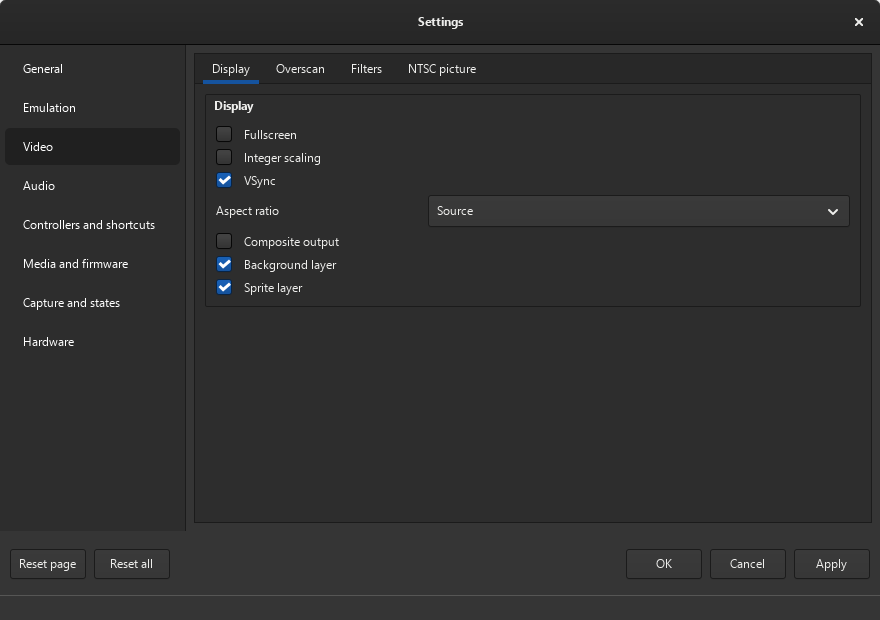
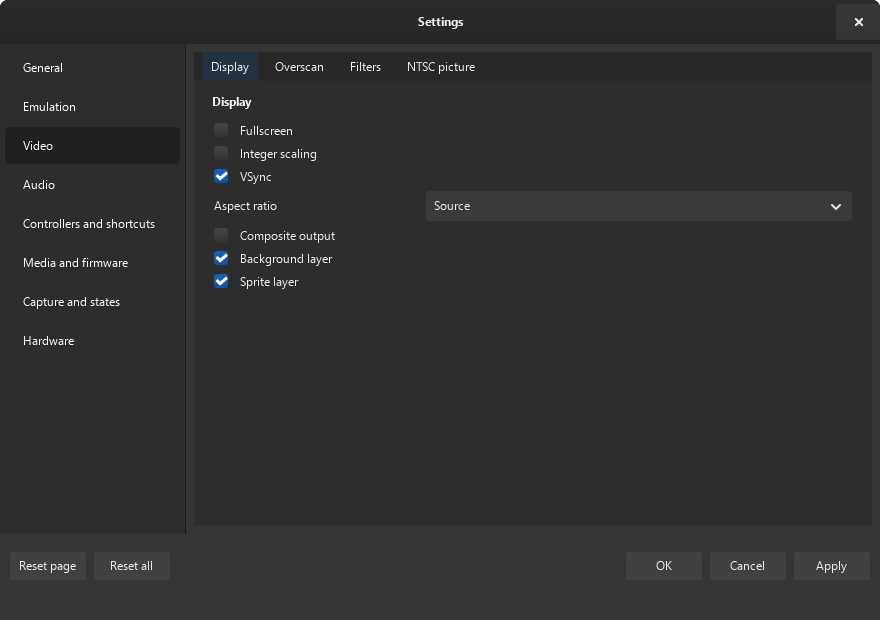
Remove desktop control borders and wait for TAS scroll layout

diff --git a/src/tests/gtk_ui_smoke.c b/src/tests/gtk_ui_smoke.c
@@ -58,19 +58,16 @@ static void pump(FrontendDesktopUi *ui) {
     }
 }
 
-static bool thin_control_borders(GtkWidget *widget) {
-    if (GTK_IS_BUTTON(widget) || GTK_IS_ENTRY(widget) || GTK_IS_SPIN_BUTTON(widget) ||
-        GTK_IS_FRAME(widget) || GTK_IS_NOTEBOOK(widget) || GTK_IS_DROP_DOWN(widget)) {
-        GtkBorder border;
-        gtk_style_context_get_border(gtk_widget_get_style_context(widget), &border);
-        if (border.left > 1 || border.right > 1 || border.top > 1 || border.bottom > 1) {
-            fprintf(stderr, "Thick control border: %s (%d,%d,%d,%d)\n", G_OBJECT_TYPE_NAME(widget),
-                    border.left, border.right, border.top, border.bottom);
-            return false;
-        }
+static bool borderless_controls(GtkWidget *widget) {
+    GtkBorder border;
+    gtk_style_context_get_border(gtk_widget_get_style_context(widget), &border);
+    if (border.left || border.right || border.top || border.bottom) {
+        fprintf(stderr, "Unexpected control border: %s (%d,%d,%d,%d)\n", G_OBJECT_TYPE_NAME(widget),
+                border.left, border.right, border.top, border.bottom);
+        return false;
     }
     for (GtkWidget *child = gtk_widget_get_first_child(widget); child; child = gtk_widget_get_next_sibling(child)) {
-        if (!thin_control_borders(child)) {
+        if (!borderless_controls(child)) {
             return false;
         }
     }
@@ -78,7 +75,7 @@ static bool thin_control_borders(GtkWidget *widget) {
 }
 
 static bool capture(GtkWidget *widget, const char *path) {
-    if (!thin_control_borders(widget)) {
+    if (!borderless_controls(widget)) {
         return false;
     }
     int w = gtk_widget_get_width(widget), h = gtk_widget_get_height(widget);
@@ -397,13 +394,9 @@ static GtkEventController *find_controller(GtkWidget *widget, const char *name) 
     return found;
 }
 
-static bool click_cell(FrontendDesktopUi *ui, GtkWidget *tree, size_t frame, GtkTreeViewColumn *column) {
-    GtkTreePath *path = gtk_tree_path_new_from_indices((int)frame, -1);
-    gtk_tree_view_scroll_to_cell(GTK_TREE_VIEW(tree), path, column, TRUE, 0, 0);
-    pump(ui);
+static bool cell_position(GtkWidget *tree, GtkTreePath *path, GtkTreeViewColumn *column, int *x, int *y) {
     GdkRectangle area;
     gtk_tree_view_get_cell_area(GTK_TREE_VIEW(tree), path, column, &area);
-    gtk_tree_path_free(path);
     /* Column allocations can lag a scroll adjustment until the next layout.
      * Build the bin-window position from widths, as GTK's hit test does. */
     int column_x = 0;
@@ -417,19 +410,41 @@ static bool click_cell(FrontendDesktopUi *ui, GtkWidget *tree, size_t frame, Gtk
         }
     }
     g_list_free(columns);
-    int x, y;
     gtk_tree_view_convert_bin_window_to_widget_coords(GTK_TREE_VIEW(tree),
                                                      column_x + gtk_tree_view_column_get_width(column) / 2,
-                                                     area.y + area.height / 2, &x, &y);
-    CHECK(x >= 0 && x < gtk_widget_get_width(tree));
-    CHECK(y >= 0 && y < gtk_widget_get_height(tree));
+                                                     area.y + area.height / 2, x, y);
+    if (area.height <= 0 || *x < 0 || *x >= gtk_widget_get_width(tree) ||
+        *y < 0 || *y >= gtk_widget_get_height(tree)) {
+        return false;
+    }
     int bx, by;
-    gtk_tree_view_convert_widget_to_bin_window_coords(GTK_TREE_VIEW(tree), x, y, &bx, &by);
+    gtk_tree_view_convert_widget_to_bin_window_coords(GTK_TREE_VIEW(tree), *x, *y, &bx, &by);
     GtkTreePath *hit = NULL;
     GtkTreeViewColumn *hit_column = NULL;
-    CHECK(gtk_tree_view_get_path_at_pos(GTK_TREE_VIEW(tree), bx, by, &hit, &hit_column, NULL, NULL));
-    bool target = gtk_tree_path_get_indices(hit)[0] == (int)frame && hit_column == column;
+    if (!gtk_tree_view_get_path_at_pos(GTK_TREE_VIEW(tree), bx, by, &hit, &hit_column, NULL, NULL)) {
+        return false;
+    }
+    bool target = gtk_tree_path_compare(hit, path) == 0 && hit_column == column;
     gtk_tree_path_free(hit);
+    return target;
+}
+
+static bool click_cell(FrontendDesktopUi *ui, GtkWidget *tree, size_t frame, GtkTreeViewColumn *column) {
+    GtkTreePath *path = gtk_tree_path_new_from_indices((int)frame, -1);
+    int x = 0, y = 0;
+    bool target = false;
+    /* GTK can defer scrolling while it measures newly visible rows. Wait for
+     * the requested cell, never retry the input mutation itself. */
+    for (unsigned attempt = 0; attempt < 25 && !target; ++attempt) {
+        gtk_tree_view_scroll_to_cell(GTK_TREE_VIEW(tree), path, column, TRUE, 0, 0);
+        pump(ui);
+        target = cell_position(tree, path, column, &x, &y);
+    }
+    gtk_tree_path_free(path);
+    if (!target) {
+        fprintf(stderr, "TAS frame %zu did not become visible: (%d,%d), viewport %dx%d\n",
+                frame, x, y, gtk_widget_get_width(tree), gtk_widget_get_height(tree));
+    }
     CHECK(target);
     GtkEventController *click = find_controller(tree, "cupid-tas-input");
     CHECK(click);

diff --git a/src/ui/gtk_desktop.c b/src/ui/gtk_desktop.c
@@ -690,7 +690,7 @@ bool cupid_gtk_init(FrontendDesktopUi *ui) {
     /* Recent Win32 GTK renderers require DirectComposition for GPU output.
      * Without this opt-in they silently fall back to scaling with Cairo.
      * Keep explicit diagnostic overrides and GTK's device-failure fallback. */
-    if (gtk_check_version(4, 24, 0) == NULL) {
+    if (gtk_check_version(4, 24, 0) == NULL && g_strcmp0(g_getenv("GSK_RENDERER"), "cairo") != 0) {
         g_setenv("GDK_DEBUG", "dcomp", FALSE);
     }
 #endif
@@ -773,24 +773,23 @@ bool cupid_gtk_init(FrontendDesktopUi *ui) {
         css,
         ".game-view { background: #08090b; } .monospace { font-family: monospace; }"
         ".cupid-desktop { font-size: 12px; }"
+        ".cupid-desktop, .cupid-desktop * { border-style: none; box-shadow: none; }"
         ".cupid-desktop button { min-height: 22px; padding: 3px 8px; border-radius: 3px; }"
-        ".cupid-desktop button, .cupid-desktop entry, .cupid-desktop spinbutton,"
-        ".cupid-desktop checkbutton check, .cupid-desktop checkbutton radio {"
-        " border: 1px solid alpha(currentColor, 0.22); box-shadow: none; }"
-        ".cupid-desktop dropdown, .cupid-desktop spinbutton entry { border: none; box-shadow: none; }"
-        ".cupid-desktop button:focus-visible, .cupid-desktop entry:focus-within,"
-        ".cupid-desktop spinbutton:focus-within { outline: 1px solid @theme_selected_bg_color; outline-offset: -2px; }"
+        ".cupid-desktop button, .cupid-desktop entry, .cupid-desktop spinbutton {"
+        " background-image: none; background-color: alpha(currentColor, 0.07); }"
+        ".cupid-desktop button:hover { background-color: alpha(currentColor, 0.12); }"
+        ".cupid-desktop button:checked, .cupid-desktop notebook > header tab:checked {"
+        " background-color: alpha(@theme_selected_bg_color, 0.22); }"
+        ".cupid-desktop spinbutton entry { background-color: transparent; }"
+        ".cupid-desktop *:focus-visible { outline: 1px solid @theme_selected_bg_color; outline-offset: -2px; }"
         ".cupid-desktop entry { min-height: 24px; padding: 2px 6px; border-radius: 2px; }"
         ".cupid-desktop dropdown button { min-height: 24px; }"
         ".cupid-desktop notebook > header tab { min-height: 24px; padding: 3px 9px; }"
-        ".cupid-desktop notebook { border: none; box-shadow: none; }"
-        ".cupid-desktop notebook > header { border-color: alpha(currentColor, 0.18); box-shadow: none; }"
-        ".cupid-desktop scrolledwindow.frame { border: 1px solid alpha(currentColor, 0.18); box-shadow: none; }"
-        ".cupid-desktop frame { border: none; border-radius: 2px; box-shadow: none; }"
+        ".cupid-desktop frame { border-radius: 2px; }"
         ".cupid-desktop frame > label { margin: 2px 8px; font-weight: bold; }"
         ".cupid-desktop flowboxchild { padding: 0; }"
         ".cupid-desktop .toolbar button { padding: 4px 7px; }"
-        ".tool-status { padding: 4px 8px; border-top: 1px solid alpha(currentColor, 0.18); }",
+        ".tool-status { padding: 4px 8px; }",
         -1);
     gtk_style_context_add_provider_for_display(gtk_widget_get_display(d->window), GTK_STYLE_PROVIDER(css),
                                                GTK_STYLE_PROVIDER_PRIORITY_APPLICATION);

diff --git a/README.md b/README.md
@@ -7,7 +7,7 @@ StudyBox media, and supported VS System arcade images.
 The GTK4 desktop has native menus, a compact toolbar, and separate windows for
 settings and tools. Keep the debugger, memory editor, or TAS timeline beside the
 game. Windows follows the system light or dark appearance.
-Controls use thin borders and visible keyboard focus outlines in both themes.
+Controls have no surrounding borders; keyboard focus stays visible in both themes.
 The Windows desktop enables GPU presentation on supported GTK runtimes to keep
 maximized and fullscreen play responsive. See [performance troubleshooting](docs/troubleshooting.md#slow-video-in-a-large-window).
 

diff --git a/docs/development.md b/docs/development.md
@@ -252,7 +252,8 @@ The GTK interaction fixture disables animations and checks the target row and
 column before sending TAS clicks. It exercises horizontal scrolling, distant
 frames, undo, and read-only input. Column widths and the current scroll adjustment
 determine click positions so pending layout work cannot select a neighboring cell.
-Window captures also check that control borders stay at most one pixel wide.
+Window captures also check that widgets have no surrounding borders. Keyboard
+focus uses a colored outline, and selected tabs use a background highlight.
 
 Build the GTK smoke executable with `make GTK=1 gtk-smoke`, then run:
 
